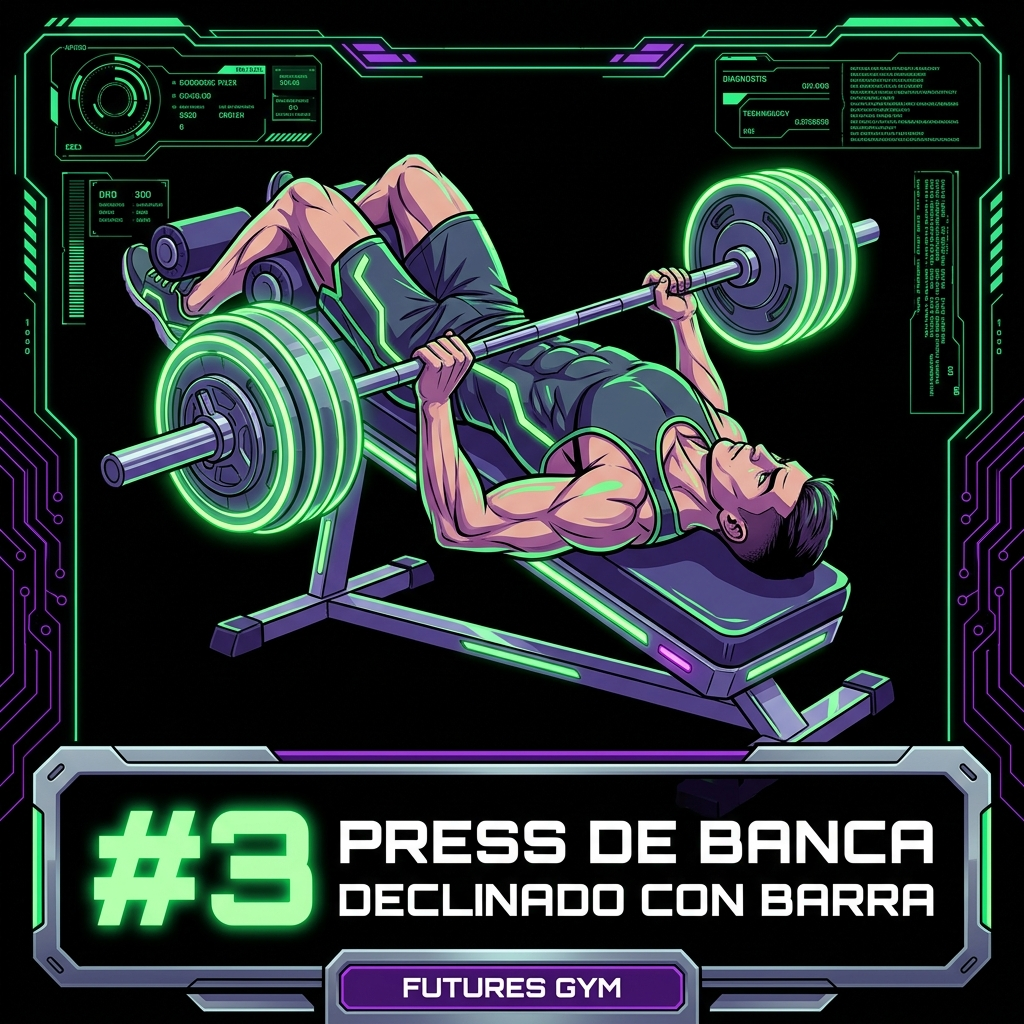
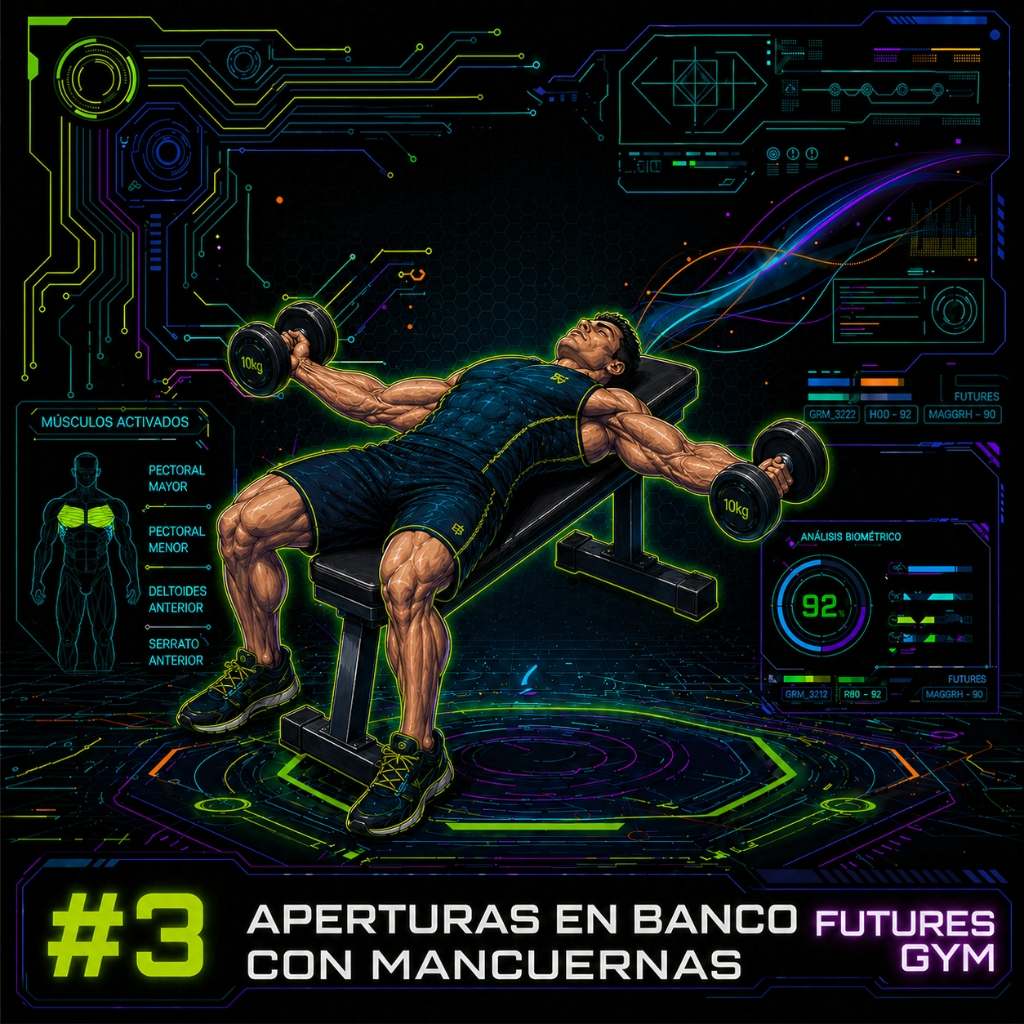
feat: update exercise ID 3 to 'Aperturas en banco con mancuernas' and use new image

diff --git a/EJERCICIOS_CATALOGO.html b/EJERCICIOS_CATALOGO.html
@@ -254,9 +254,9 @@
         <tr>
             <td class="id-cell">#3</td>
             <td>
-                <img src="./public/exercises/v2_pecho_3.png" class="exercise-img" alt="Press de banca declinado con barra" onerror="this.src='https://via.placeholder.com/120x80/222/ff0000?text=Error'">
+                <img src="./public/exercises/v2_pecho_3.png" class="exercise-img" alt="Aperturas en banco con mancuernas" onerror="this.src='https://via.placeholder.com/120x80/222/ff0000?text=Error'">
             </td>
-            <td><strong>Press de banca declinado con barra</strong></td>
+            <td><strong>Aperturas en banco con mancuernas</strong></td>
             <td><span class="category-badge">Pecho</span></td>
         </tr>
         <tr>
